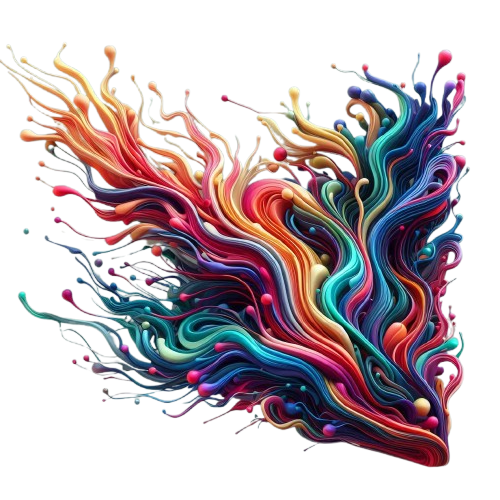
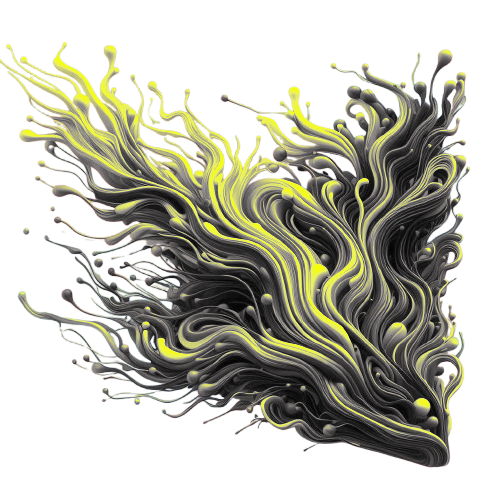
changing colors

diff --git a/index.html b/index.html
@@ -35,7 +35,13 @@
      ********************************************/
     header {
       width: 100%; height: 80px;
-      background: #111; position: fixed; top: 0; left: 0;
+      background: #1c1c1c;
+      color: #e0e0e0;
+      padding: 20px;
+      font-size: 1.5rem;
+      font-weight: bold;
+      border-bottom: 3px solid #3a3a3a;
+      position: fixed; top: 0; left: 0;
       z-index: 1000; display: flex; align-items: center;
       justify-content: space-between; padding: 0 2rem;
     }
@@ -139,22 +145,25 @@
      * HERO SECTION WITH PARALLAX
      ********************************************/
     .hero {
+      background: linear-gradient(135deg, #2a2a2a, #1a1a1a);
+      padding: 80px 20px;
+      color: #e0e0e0;
+      border-radius: 15px;
+      text-transform: uppercase;
+      letter-spacing: 2px;
       position: relative;
       min-height: 100vh;
       margin-top: 70px; /* Compensa o header fixo */
-      color: #fff;
       display: flex;
       flex-direction: column;
       justify-content: center;
       align-items: center;
       text-align: center;
       overflow: hidden;
-      padding: 0 1rem;
 
     }
     /* Fundo vibrante com gradiente e efeito parallax */
     .hero.parallax {
-      background: linear-gradient(45deg, #FFD700, #FF3366);
       background-attachment: fixed;
       background-size: cover;
       background-position: center;
@@ -251,11 +260,12 @@
      ********************************************/
     .about-section {
       position: relative;
-      background: #00CCFF;
-      color: #fff;
-      padding: 80px 20px;
+      background: #252525;
+      color: #d1d1d1;
       text-align: center;
       clip-path: polygon(0 0, 100% 5%, 100% 100%, 0 95%);
+      padding: 50px;
+      border-radius: 10px;
     }
     .about-section h2 {
       font-size: 2.5rem;
@@ -296,8 +306,8 @@
      ********************************************/
     .events-section {
       position: relative;
-      background: #FFD700;
-      color: #333;
+      background: linear-gradient(135deg, #2e2e2e, #1c1c1c);
+      color: #ccc;
       padding: 80px 20px;
       text-align: center;
       clip-path: polygon(0 5%, 100% 0, 100% 95%, 0 100%);
@@ -342,8 +352,8 @@
      ********************************************/
     .gallery-section {
       position: relative;
-      background: #111;
-      color: #fff;
+      background: #303030;
+      color: #c0c0c0;
       padding: 80px 20px;
       text-align: center;
       clip-path: polygon(0 0, 100% 5%, 100% 100%, 0 95%);
@@ -380,7 +390,7 @@
      ********************************************/
     .instagram-feed {
       position: relative;
-      background: linear-gradient(45deg, #FF99CC, #FFCC00);
+      background: linear-gradient(135deg, #B03060, #FFD700);
       color: #fff;
       padding: 80px 20px;
       text-align: center;
@@ -400,7 +410,7 @@
      ********************************************/
     .music-player {
       position: relative;
-      background: linear-gradient(45deg, #66FF66, #33CCFF);
+      background: linear-gradient(135deg, #FFD700, #B03060);
       color: #fff;
       padding: 80px 20px;
       text-align: center;
@@ -424,8 +434,8 @@
      ********************************************/
     .contact-section {
       position: relative;
-      background: #FF3366;
-      color: #fff;
+      background: #1e1e1e;
+      color: #b0b0b0;
       padding: 80px 20px;
       text-align: center;
       clip-path: polygon(0 5%, 100% 0, 100% 100%, 0 95%);
@@ -451,8 +461,8 @@
       outline: none;
     }
     .contact-form button {
-      background-color: #fff;
-      color: #FF3366;
+      background: #3a3a3a;
+      color: #e0e0e0;
       padding: 0.8rem;
       font-size: 1.2rem;
       font-weight: 600;
@@ -462,16 +472,15 @@
       transition: background-color 0.3s, color 0.3s;
     }
     .contact-form button:hover {
-      background-color: #FF3366;
-      color: #fff;
+      background: #555;
     }
     
     /********************************************
      * FOOTER
      ********************************************/
     footer {
-      background: #000;
-      color: #fff;
+      background: #1a1a1a;
+      color: #c0c0c0;
       text-align: center;
       padding: 1rem;
     }
@@ -574,6 +583,20 @@
   }
 }
 
+.text {
+            font-family: 'Poppins', sans-serif;
+            font-size: 80px;
+            font-weight: 800;
+            color: white;
+            display: inline-block;
+            text-shadow: 
+                -4px 4px 0px black,
+                -8px 8px 0px black,
+                -12px 12px 0px black,
+                -16px 16px 0px black,
+                -20px 20px 0px black;
+        }
+
   </style>
 </head>
 <body>
@@ -614,7 +637,7 @@
   
   <!-- HERO SECTION -->
   <section class="hero parallax" id="home">
-    <div class="band-name-overlay">CLAIRE BAND</div>
+    <div class="band-name-overlay text">CLAIRE</div>
     <!-- Asas saindo por trás -->
     <div class="wing wing-left"></div>
     <div class="wing wing-right"></div>
